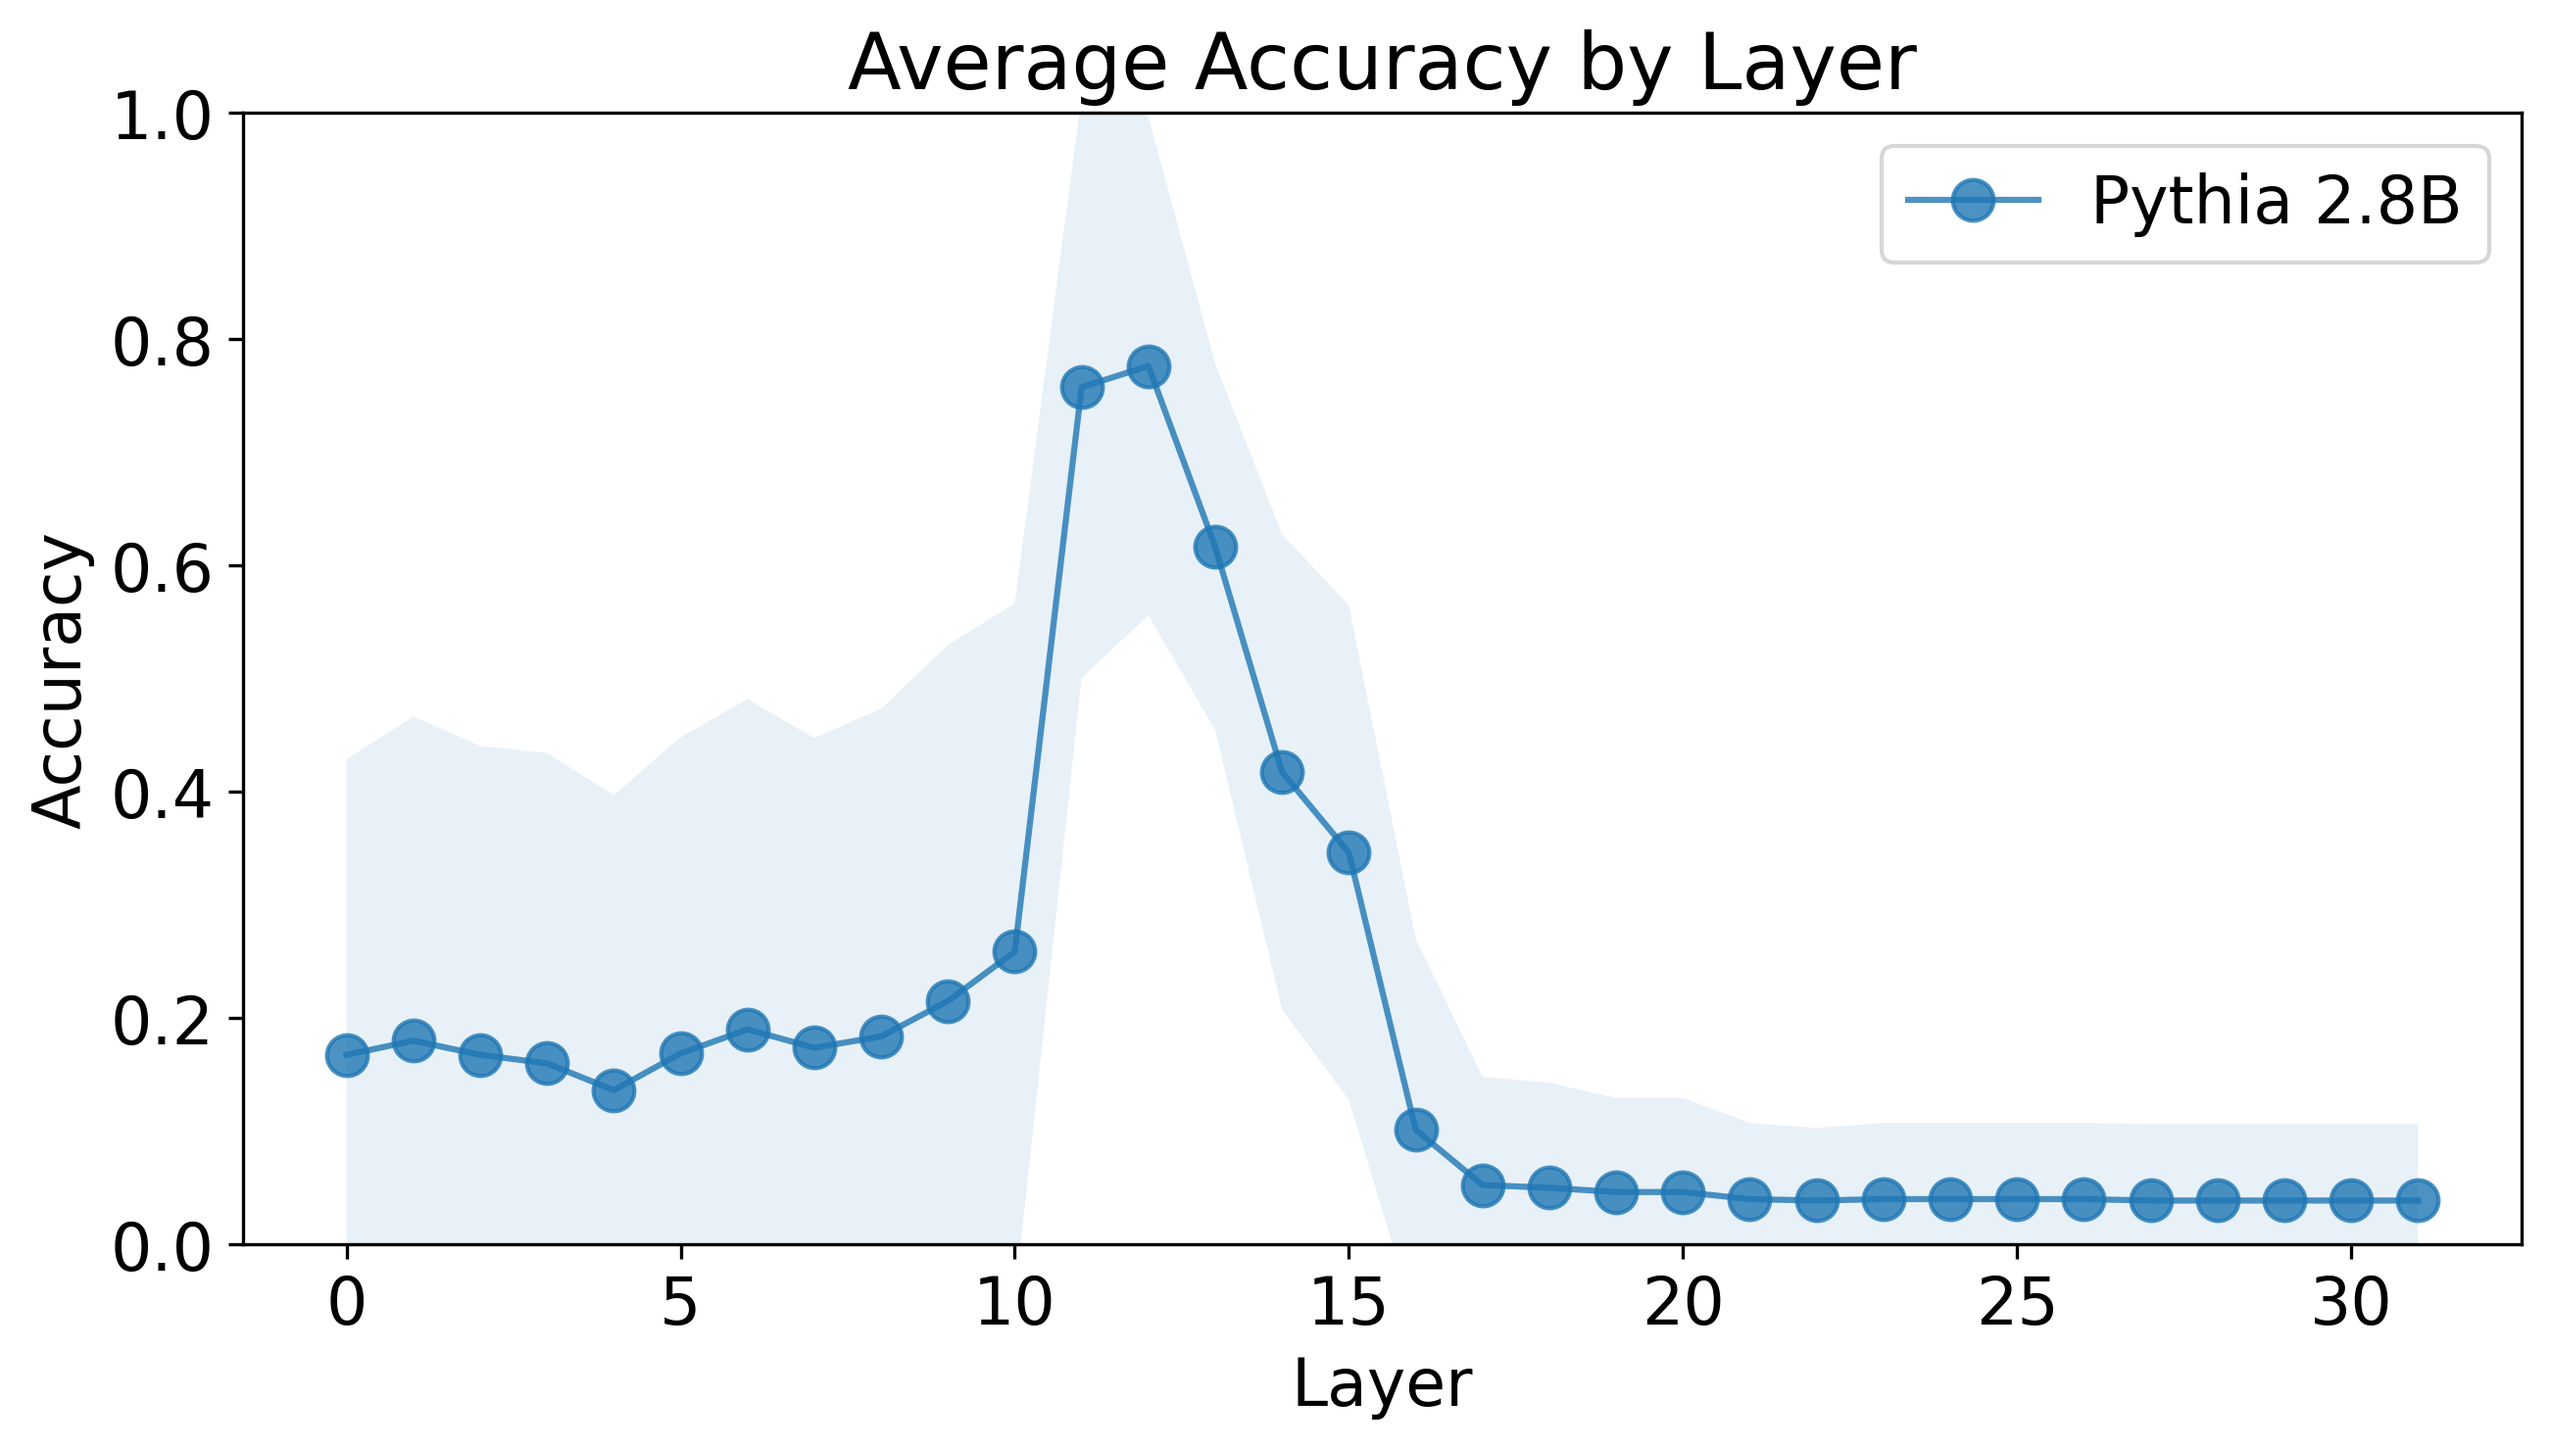
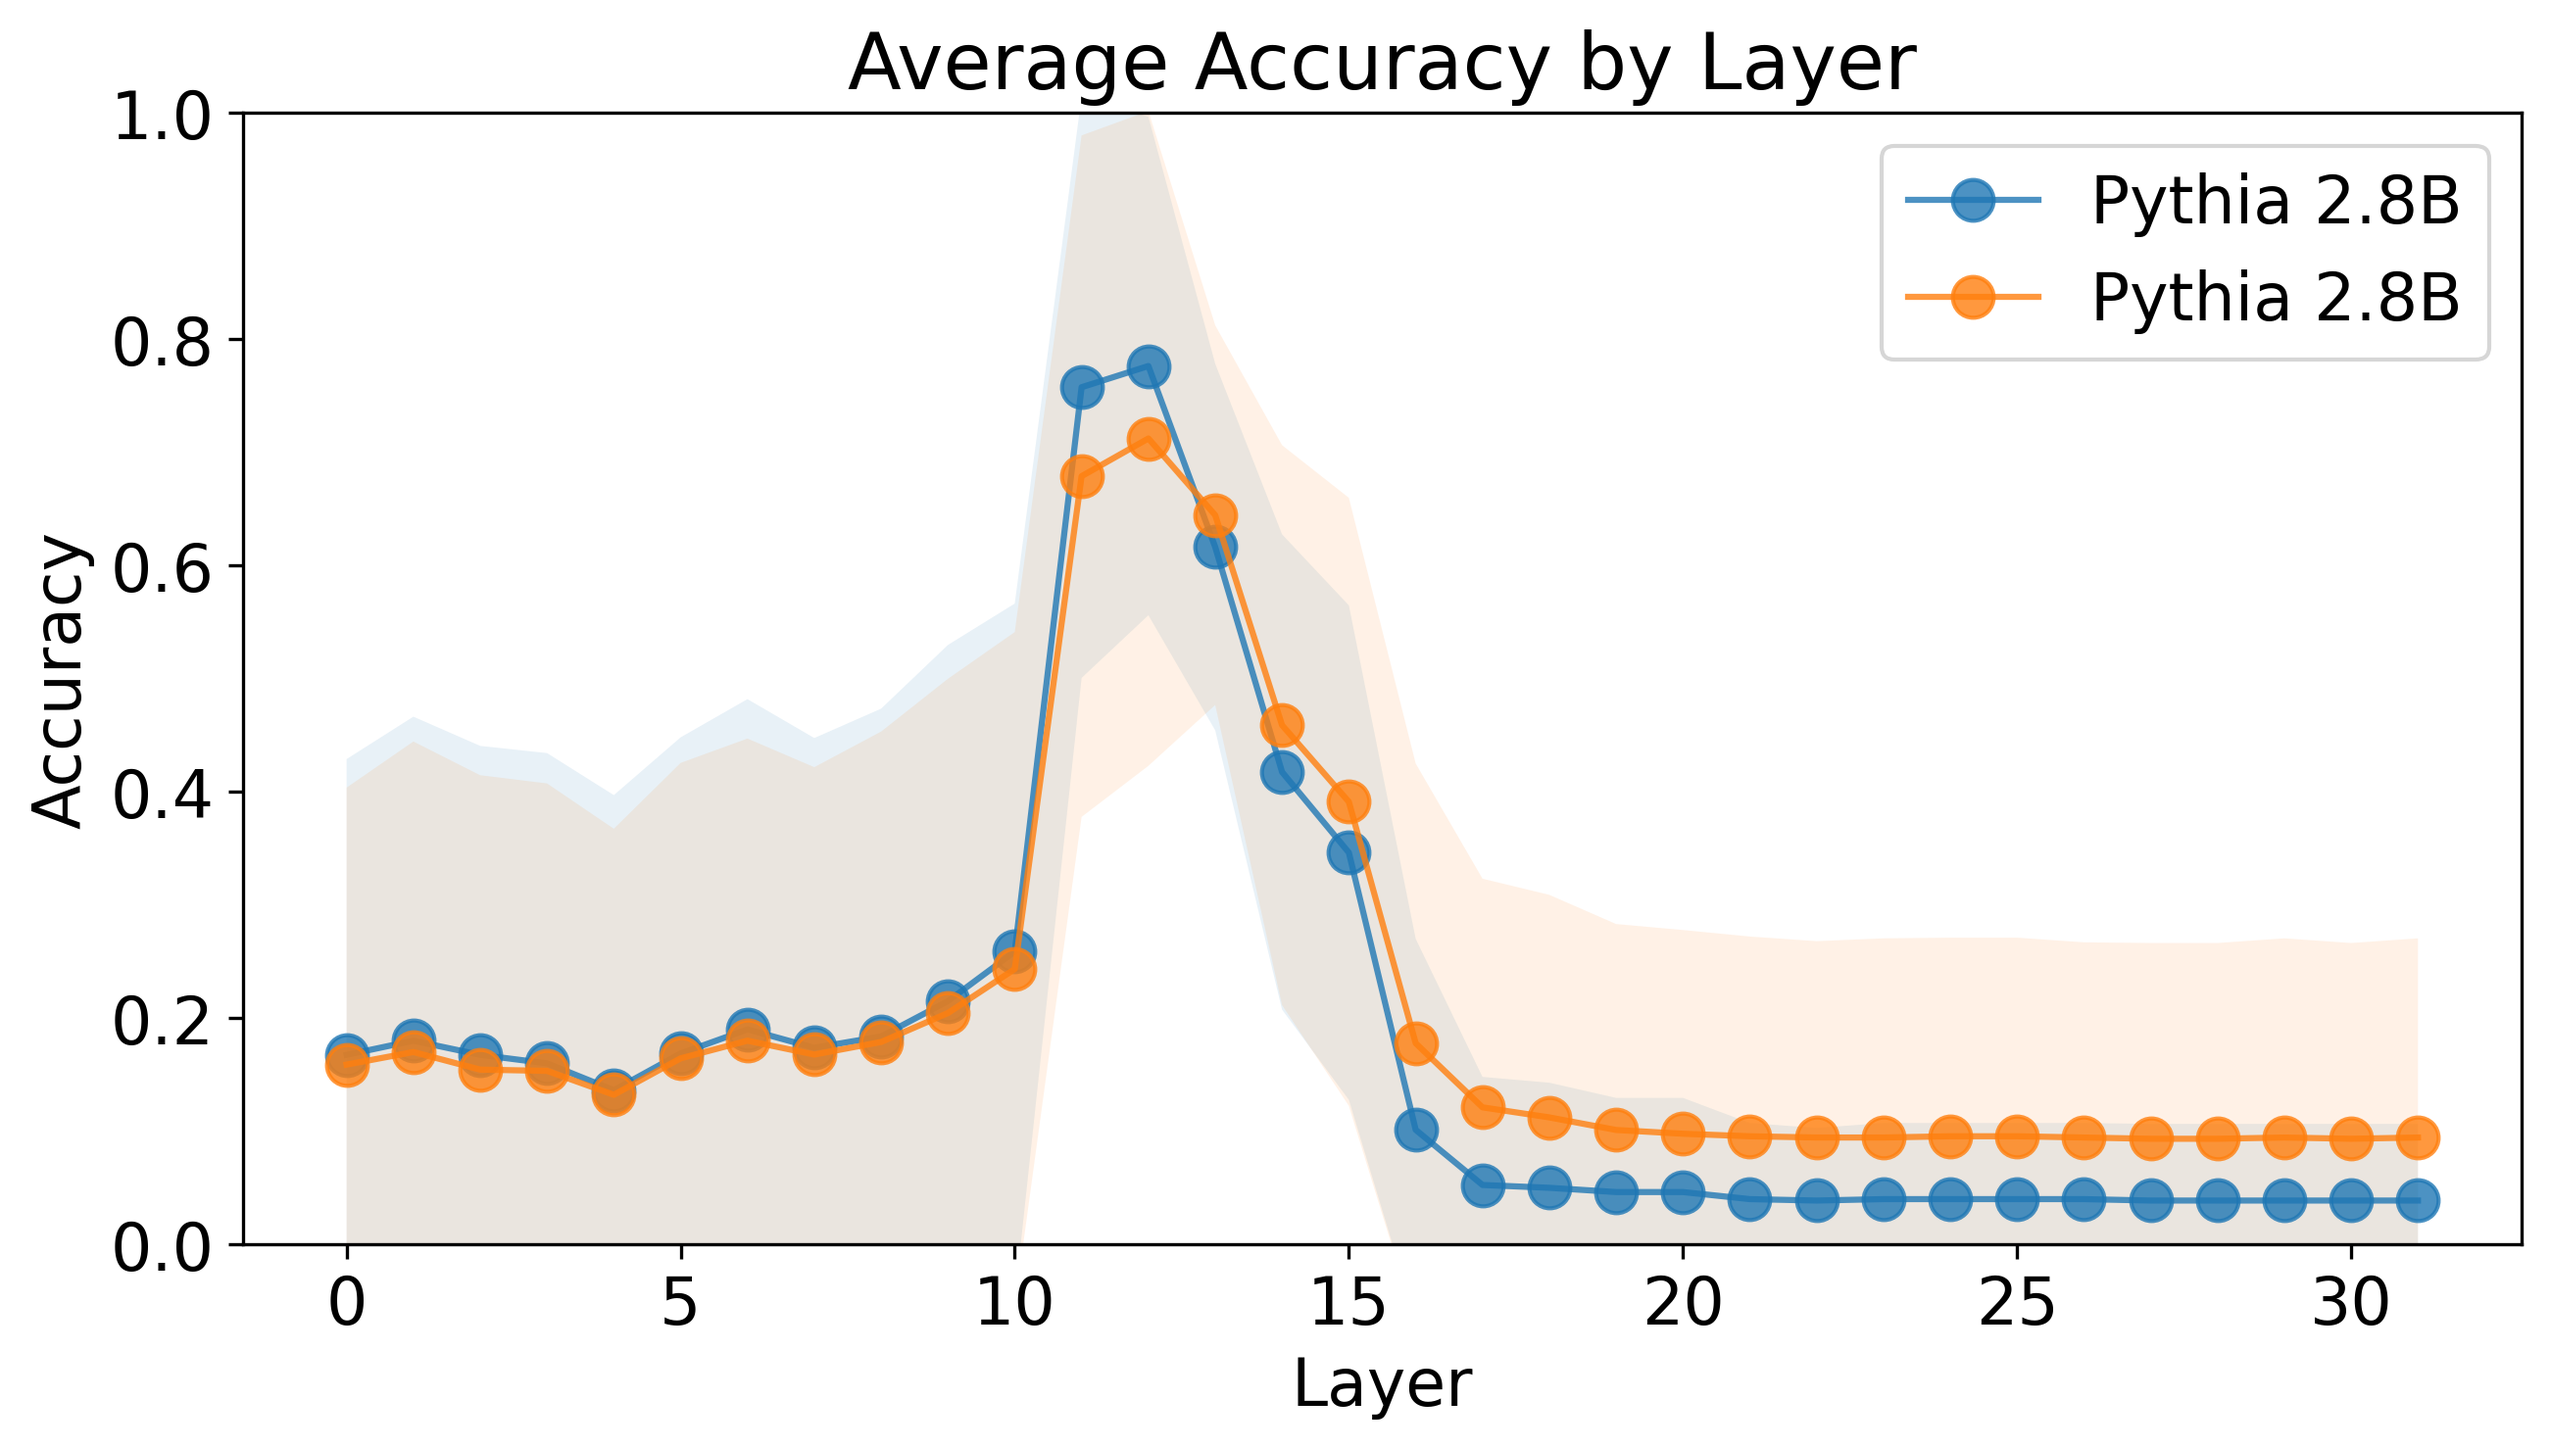
update fig

Changed region(s): [[0.1245, 0.1867, 0.965, 0.8092], [0.7471, 0.1867, 0.965, 0.249]]

diff --git a/scripts/figures/main.py b/scripts/figures/main.py
@@ -39,7 +39,7 @@ def filter_tasks_with_low_icl_accuracy(grouped_accuracies_df, regular_accuracy_t
 def plot_avg_accuracies_per_model(grouped_accuracies_df):
     filtered_task_accuracies_df = filter_tasks_with_low_icl_accuracy(grouped_accuracies_df)
 
-    columns_to_plot = ["Baseline", "Hypothesis", "Regular"]
+    columns_to_plot = ["Baseline", "Regular", "TV", "Stack", "Second_TV"]
 
     # Calculate average accuracy and std deviation for each model
     df_agg = filtered_task_accuracies_df.groupby("model")[columns_to_plot].agg("mean")
@@ -56,7 +56,7 @@ def plot_avg_accuracies_per_model(grouped_accuracies_df):
     fig, ax = plt.subplots(figsize=(6, 6))
 
     bar_width = 0.3
-    hatches = ["/", "\\", "|"]
+    hatches = ["/", "\\", "|", "/", "|"]
     for j, column in enumerate(columns_to_plot):
         means = df_agg[column]
         y_positions = np.arange(len(means)) + (j - 1) * bar_width
@@ -66,7 +66,7 @@ def plot_avg_accuracies_per_model(grouped_accuracies_df):
             means,
             height=bar_width,
             capsize=2,
-            color=["grey", "blue", "green"][j],
+            color=["grey", "blue", "green", "red", "purple"][j],
             edgecolor="white",
             hatch=hatches[j] * 2,
         )
@@ -82,8 +82,10 @@ def plot_avg_accuracies_per_model(grouped_accuracies_df):
     # show legend below the plot
     legend_elements = [
         Patch(facecolor="grey", edgecolor="white", hatch=hatches[0] * 2, label="Baseline"),
-        Patch(facecolor="green", edgecolor="white", hatch=hatches[2] * 2, label="Regular"),
-        Patch(facecolor="blue", edgecolor="white", hatch=hatches[1] * 2, label="Hypothesis"),
+        Patch(facecolor="blue", edgecolor="white", hatch=hatches[1] * 2, label="ICL"),
+        Patch(facecolor="green", edgecolor="white", hatch=hatches[2] * 2, label="TV"),
+        Patch(facecolor="red", edgecolor="white", hatch=hatches[2] * 2, label="Stack"),
+        Patch(facecolor="purple", edgecolor="white", hatch=hatches[2] * 2, label="Second_TV")
     ]
     ax.legend(handles=legend_elements, loc="upper center", bbox_to_anchor=(0.5, -0.1), ncol=3)
 
@@ -117,45 +119,46 @@ def plot_accuracy_by_layer(results, model_names: List[str], normalize_x_axis: bo
     markers = ["o", "^", "s", "P", "X", "D", "v"]
 
     for idx, model_name in enumerate(model_names):
-        min_num_layers = min(
-            len(results[model_name][task_name]["tv_dev_accruacy_by_layer"]) for task_name in results[model_name]
-        )
-        all_tv_dev_accruacy_by_layer = np.array(
-            [
-                np.array(list(results[model_name][task_name]["tv_dev_accruacy_by_layer"].values())[:min_num_layers])
-                for task_name in results[model_name]
+        for acc_layer in ["tv_dev_accruacy_by_layer", "tv_dev_accruacy_by_layer2"]:
+            min_num_layers = min(
+                len(results[model_name][task_name][acc_layer]) for task_name in results[model_name]
+            )
+            all_tv_dev_accruacy_by_layer = np.array(
+                [
+                    np.array(list(results[model_name][task_name][acc_layer].values())[:min_num_layers])
+                    for task_name in results[model_name]
+                ]
+            )
+
+            all_tv_dev_accruacy_by_layer = all_tv_dev_accruacy_by_layer[
+                all_tv_dev_accruacy_by_layer.max(axis=-1) > regular_accuracy_threshold
             ]
-        )
 
-        all_tv_dev_accruacy_by_layer = all_tv_dev_accruacy_by_layer[
-            all_tv_dev_accruacy_by_layer.max(axis=-1) > regular_accuracy_threshold
-        ]
+            mean_tv_dev_accruacy_by_layer = np.mean(all_tv_dev_accruacy_by_layer, axis=0)
+            std_tv_dev_accruacy_by_layer = np.std(all_tv_dev_accruacy_by_layer, axis=0)
 
-        mean_tv_dev_accruacy_by_layer = np.mean(all_tv_dev_accruacy_by_layer, axis=0)
-        std_tv_dev_accruacy_by_layer = np.std(all_tv_dev_accruacy_by_layer, axis=0)
+            layers = np.array(list(list(results[model_name].values())[0][acc_layer].keys()))
+            layers_fraction = layers / (max(layers) / 0.9)
 
-        layers = np.array(list(list(results[model_name].values())[0]["tv_dev_accruacy_by_layer"].keys()))
-        layers_fraction = layers / (max(layers) / 0.9)
+            x_values = layers
+            if normalize_x_axis:
+                x_values = x_values / num_layers[model_name]
 
-        x_values = layers
-        if normalize_x_axis:
-            x_values = x_values / num_layers[model_name]
-
-        # Use different marker for each model and increase the marker size
-        plt.plot(
-            x_values,
-            mean_tv_dev_accruacy_by_layer,
-            marker=markers[idx],
-            markersize=10,
-            label=MODEL_DISPLAY_NAME_MAPPING[model_name],
-            alpha=0.8,
-        )
-        plt.fill_between(
-            x_values,
-            mean_tv_dev_accruacy_by_layer - std_tv_dev_accruacy_by_layer,
-            mean_tv_dev_accruacy_by_layer + std_tv_dev_accruacy_by_layer,
-            alpha=0.1,
-        )
+            # Use different marker for each model and increase the marker size
+            plt.plot(
+                x_values,
+                mean_tv_dev_accruacy_by_layer,
+                marker=markers[idx],
+                markersize=10,
+                label=MODEL_DISPLAY_NAME_MAPPING[model_name],
+                alpha=0.8,
+            )
+            plt.fill_between(
+                x_values,
+                mean_tv_dev_accruacy_by_layer - std_tv_dev_accruacy_by_layer,
+                mean_tv_dev_accruacy_by_layer + std_tv_dev_accruacy_by_layer,
+                alpha=0.1,
+            )
 
     plt.xlabel("Layer")
     plt.ylabel("Accuracy")

diff --git a/outputs/figures/main_experiment_results_table.tex b/outputs/figures/main_experiment_results_table.tex
@@ -1,46 +1,46 @@
 \onecolumn
 \begin{center}
 \small
-\begin{longtable}{lllrrr}
+\begin{longtable}{lllrrrrr}
 
 \caption{Complete results of the main experiment for all tasks and models.} \label{table:main_results} \\
 
 \toprule
- &  & method & Baseline & Hypothesis & Regular \\
-Model & Task type & Task name &  &  &  \\
+ &  & method & Baseline & Regular & Second tv & Stack & Tv \\
+Model & Task type & Task name &  &  &  &  &  \\
 \midrule
     \endfirsthead
 
     \multicolumn{3}{c}
     {{\bfseries \tablename\ \thetable{} -- continued from previous page}} \\
     \toprule
- &  & method & Baseline & Hypothesis & Regular \\
-Model & Task type & Task name &  &  &  \\
+ &  & method & Baseline & Regular & Second tv & Stack & Tv \\
+Model & Task type & Task name &  &  &  &  &  \\
 \midrule
     \endhead
     
-\multirow[t]{18}{*}{Pythia 2.8B} & \multirow[t]{6}{*}{Algorithmic} & List first & 0.65 & 0.92 & 1.00 \\
- &  & List last & 0.02 & 0.93 & 1.00 \\
- &  & Next letter & 0.42 & 0.85 & 0.94 \\
- &  & Prev letter & 0.06 & 0.27 & 0.50 \\
- &  & To lower & 0.00 & 0.97 & 1.00 \\
- &  & To upper & 0.00 & 0.97 & 1.00 \\
-\cline{2-6}
- & \multirow[t]{4}{*}{Knowledge} & Country capital & 0.12 & 0.51 & 0.64 \\
- &  & Location continent & 0.00 & 0.60 & 0.82 \\
- &  & Location religion & 0.04 & 0.69 & 0.87 \\
- &  & Person language & 0.01 & 0.76 & 0.80 \\
-\cline{2-6}
- & \multirow[t]{4}{*}{Linguistic} & Antonyms & 0.40 & 0.62 & 0.73 \\
- &  & Plural singular & 0.06 & 0.79 & 0.81 \\
- &  & Present simple gerund & 0.00 & 0.84 & 0.96 \\
- &  & Present simple past simple & 0.00 & 0.81 & 0.92 \\
-\cline{2-6}
- & \multirow[t]{4}{*}{Translation} & En es & 0.07 & 0.23 & 0.76 \\
- &  & En fr & 0.13 & 0.36 & 0.57 \\
- &  & Es en & 0.16 & 0.66 & 0.85 \\
- &  & Fr en & 0.20 & 0.65 & 0.80 \\
-\cline{1-6} \cline{2-6}
+\multirow[t]{18}{*}{Pythia 2.8B} & \multirow[t]{6}{*}{Algorithmic} & List first & 0.65 & 1.00 & 0.88 & 1.00 & 0.92 \\
+ &  & List last & 0.02 & 1.00 & 0.97 & 0.99 & 0.93 \\
+ &  & Next letter & 0.42 & 0.94 & 0.85 & 0.98 & 0.85 \\
+ &  & Prev letter & 0.06 & 0.50 & 0.22 & 0.11 & 0.27 \\
+ &  & To lower & 0.00 & 1.00 & 0.96 & 1.00 & 0.97 \\
+ &  & To upper & 0.00 & 1.00 & 0.97 & 1.00 & 0.97 \\
+\cline{2-8}
+ & \multirow[t]{4}{*}{Knowledge} & Country capital & 0.12 & 0.64 & 0.53 & 0.60 & 0.51 \\
+ &  & Location continent & 0.00 & 0.82 & 0.52 & 0.60 & 0.60 \\
+ &  & Location religion & 0.04 & 0.87 & 0.70 & 0.78 & 0.69 \\
+ &  & Person language & 0.01 & 0.80 & 0.75 & 0.82 & 0.76 \\
+\cline{2-8}
+ & \multirow[t]{4}{*}{Linguistic} & Antonyms & 0.40 & 0.73 & 0.62 & 0.71 & 0.62 \\
+ &  & Plural singular & 0.06 & 0.81 & 0.65 & 0.80 & 0.79 \\
+ &  & Present simple gerund & 0.00 & 0.96 & 0.84 & 0.97 & 0.84 \\
+ &  & Present simple past simple & 0.00 & 0.92 & 0.83 & 0.94 & 0.81 \\
+\cline{2-8}
+ & \multirow[t]{4}{*}{Translation} & En es & 0.07 & 0.76 & 0.18 & 0.77 & 0.23 \\
+ &  & En fr & 0.13 & 0.57 & 0.34 & 0.62 & 0.36 \\
+ &  & Es en & 0.16 & 0.85 & 0.70 & 0.83 & 0.66 \\
+ &  & Fr en & 0.20 & 0.80 & 0.64 & 0.78 & 0.65 \\
+\cline{1-8} \cline{2-8}
 \bottomrule
 \end{longtable}
 

diff --git a/scripts/figures/helpers.py b/scripts/figures/helpers.py
@@ -51,6 +51,8 @@ def extract_accuracies(results):
                 "bl": task_results["baseline_accuracy"],
                 "icl": task_results["icl_accuracy"],
                 "tv": task_results["tv_accuracy"],
+                "stack_tv_accuracy": task_results["stack_tv_accuracy"],
+                "second_tv_accuracy": task_results["second_tv_accuracy"],
             }
 
     return accuracies
@@ -67,8 +69,11 @@ def create_accuracies_df(results):
             task_name = "_".join(task_full_name.split("_")[1:])
 
             data.append([model_name, task_type, task_name, "Baseline", task_acc["bl"]])
-            data.append([model_name, task_type, task_name, "Hypothesis", task_acc["tv"]])
             data.append([model_name, task_type, task_name, "Regular", task_acc["icl"]])
+            data.append([model_name, task_type, task_name, "TV", task_acc["tv"]])
+            data.append([model_name, task_type, task_name, "Stack", task_acc["stack_tv_accuracy"]])
+            data.append([model_name, task_type, task_name, "Second_TV", task_acc["second_tv_accuracy"]])
+
 
     df = pd.DataFrame(data, columns=["model", "task_type", "task_name", "method", "accuracy"])
 

diff --git a/scripts/experiments/main.py b/scripts/experiments/main.py
@@ -41,7 +41,7 @@ def evaluate_task(model: PreTrainedModel, tokenizer: PreTrainedTokenizer, task_n
     # Evaluate ICL and Task Vector
     # TODO: Change back to 400, 100
     #num_test_datasets, num_dev_datasets = 50, 50
-    num_test_datasets, num_dev_datasets = 100, 100
+    num_test_datasets, num_dev_datasets = 80, 80
 
     test_datasets = task.create_datasets(num_datasets=num_test_datasets, num_examples=num_examples)
     dev_datasets = task.create_datasets(num_datasets=num_dev_datasets, num_examples=num_examples)

diff --git a/core/experiments_config.py b/core/experiments_config.py
@@ -25,7 +25,7 @@ TASKS_TO_EVALUATE = [
 ]
 
 #MODELS_TO_EVALUATE = [("pythia", "2.8B"), ("gpt-j", "6B"), ("pythia", "6.9B")]
-MODELS_TO_EVALUATE = [("pythia", "2.8B")]
+MODELS_TO_EVALUATE = [("pythia", "2.8B"), ("gpt-j", "6B"), ("pythia", "6.9B")]
 MODELS_TO_EVALUATE_A = [
     # ("gpt-2", "1.5B"),
     ("pythia", "2.8B"),
